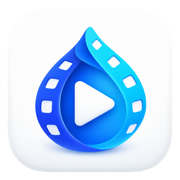
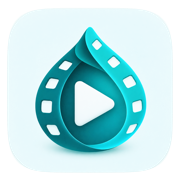
Move to teal, and shorten the skills row
Both themes swap af.codes' navy and blue for teal built from the icon's cyan, with the glow, `theme-color` metas, `dark-mode.js` and `og-image.png` following. The app icon, favicons and Apple touch icon are replaced with supplied teal versions. `.skills` gets an icon and one short line per item, and stays three columns on phones, stacking through a container query only when enlarged text wouldn't fit.

diff --git a/styles/index-light.css b/styles/index-light.css
@@ -1,16 +1,17 @@
-/* Light theme: a cool white under a glow of the icon's blues.
+/* Light theme: an aqua white under a glow of teal and the icon's cyan.
+   Teal rather than af.codes' navy and blue, so the two don't look alike.
    Don't forget to update the theme colors in scripts/dark-mode.js and index.html's
    theme-color metas if --bg changes. */
 
 :root {
     color-scheme: light;
 
-    --bg: #f4f9ff;
-    --fg: #0b1a33;
-    --secondary: #44546f;
-    /* The icon's deep blue, 7.1:1 on --bg. */
-    --accent: #0144d6;
-    --accent-text: #0144d6;
+    --bg: #f1fbfb;
+    --fg: #072a2f;
+    --secondary: #3d5e63;
+    /* The icon's cyan darkened to a deep teal, 5.9:1 on --bg and 6.2:1 under white. */
+    --accent: #006b7a;
+    --accent-text: #006b7a;
     --on-accent: #ffffff;
     --danger: #a8201a;
     --warn: #8a4b00;
@@ -18,18 +19,18 @@
        Matches af.codes. */
     --logo-circle: #ffffff;
     /* Every stop holds at least 3:1 even where the hero's glow is strongest. */
-    --title-gradient: linear-gradient(100deg, #012f9e 5%, #0144d6 50%, #0a6ee6 95%);
+    --title-gradient: linear-gradient(100deg, #004652 5%, #006b7a 50%, #00869a 95%);
     --glass: rgba(255, 255, 255, .7);
     --glass-strong: rgba(255, 255, 255, .92);
-    --glass-border: rgba(11, 26, 51, .12);
+    --glass-border: rgba(7, 42, 47, .12);
     /* At least 3:1 on the panels, so fields can be told apart from them. */
-    --field-border: rgba(11, 26, 51, .5);
-    --glass-shadow: rgba(1, 50, 150, .16);
-    --icon-shadow: rgba(1, 50, 150, .22);
-    --divider: rgba(11, 26, 51, .14);
-    --track: rgba(11, 26, 51, .16);
-    --accent-glow: rgba(1, 68, 214, .25);
-    --scrim: rgba(244, 249, 255, .82);
+    --field-border: rgba(7, 42, 47, .5);
+    --glass-shadow: rgba(0, 80, 95, .16);
+    --icon-shadow: rgba(0, 80, 95, .22);
+    --divider: rgba(7, 42, 47, .14);
+    --track: rgba(7, 42, 47, .16);
+    --accent-glow: rgba(0, 107, 122, .25);
+    --scrim: rgba(241, 251, 251, .82);
 }
 
 html {
@@ -40,9 +41,9 @@ html {
     display: block;
 }
 
-/* The icon's deep blue washing down from the top, with its cyan to one side. */
+/* A teal washing down from the top, with the icon's cyan to one side. */
 .hero-sky {
     background:
-        radial-gradient(ellipse 1100px 520px at 50% 0%, rgba(1, 68, 214, .16) 0%, rgba(1, 68, 214, .06) 50%, rgba(1, 68, 214, 0) 100%),
-        radial-gradient(ellipse 700px 420px at 82% 18%, rgba(42, 224, 253, .14) 0%, rgba(42, 224, 253, 0) 70%);
+        radial-gradient(ellipse 1100px 520px at 50% 0%, rgba(0, 150, 168, .16) 0%, rgba(0, 150, 168, .06) 50%, rgba(0, 150, 168, 0) 100%),
+        radial-gradient(ellipse 700px 420px at 82% 18%, rgba(42, 224, 253, .16) 0%, rgba(42, 224, 253, 0) 70%);
 }

diff --git a/index.html b/index.html
@@ -7,8 +7,8 @@
     <title>GifDrop</title>
     <meta name="description" content="Drop a video, get a GIF. Trim, crop and tune it right in your browser, with nothing uploaded.">
 
-    <meta name="theme-color" content="#f4f9ff" media="(prefers-color-scheme: light)">
-    <meta name="theme-color" content="#060d1e" media="(prefers-color-scheme: dark)">
+    <meta name="theme-color" content="#f1fbfb" media="(prefers-color-scheme: light)">
+    <meta name="theme-color" content="#031619" media="(prefers-color-scheme: dark)">
 
     <meta property="og:title" content="GifDrop">
     <meta property="og:type" content="website">
@@ -90,16 +90,25 @@
 
             <div class="skills">
                 <div class="skill">
+                    <svg width="20" height="20" viewBox="0 0 24 24" fill="none" stroke="currentColor" stroke-width="2" stroke-linecap="round" stroke-linejoin="round" aria-hidden="true">
+                        <rect x="3" y="11" width="18" height="11" rx="2"/><path d="M7 11V7a5 5 0 0 1 10 0v4"/>
+                    </svg>
                     <h2>Private</h2>
-                    <p>Nothing is uploaded. Your video stays on your device from start to finish.</p>
+                    <p>Nothing is ever uploaded.</p>
                 </div>
                 <div class="skill">
+                    <svg width="20" height="20" viewBox="0 0 24 24" fill="none" stroke="currentColor" stroke-width="2" stroke-linecap="round" stroke-linejoin="round" aria-hidden="true">
+                        <polygon points="13 2 3 14 12 14 11 22 21 10 12 10 13 2"/>
+                    </svg>
                     <h2>Fast</h2>
-                    <p>Uses your browser's own video decoder, so most clips convert in seconds.</p>
+                    <p>Most clips take seconds.</p>
                 </div>
                 <div class="skill">
+                    <svg width="20" height="20" viewBox="0 0 24 24" fill="none" stroke="currentColor" stroke-width="2" stroke-linecap="round" stroke-linejoin="round" aria-hidden="true">
+                        <line x1="4" y1="21" x2="4" y2="14"/><line x1="4" y1="10" x2="4" y2="3"/><line x1="12" y1="21" x2="12" y2="12"/><line x1="12" y1="8" x2="12" y2="3"/><line x1="20" y1="21" x2="20" y2="16"/><line x1="20" y1="12" x2="20" y2="3"/><line x1="1" y1="14" x2="7" y2="14"/><line x1="9" y1="8" x2="15" y2="8"/><line x1="17" y1="16" x2="23" y2="16"/>
+                    </svg>
                     <h2>Tuned</h2>
-                    <p>Trim, crop and set the size, speed and loop, and see the file size before you commit.</p>
+                    <p>Trim, crop, resize and loop.</p>
                 </div>
             </div>
         </section>

diff --git a/styles/index-dark.css b/styles/index-dark.css
@@ -1,34 +1,35 @@
-/* Dark theme: near-black navy under the icon's deep blue, with its cyan for accents.
+/* Dark theme: teal-black under a deep teal glow, with the icon's cyan for accents.
+   Teal rather than af.codes' navy and blue, so the two don't look alike.
    Don't forget to update the theme colors in scripts/dark-mode.js and index.html's
    theme-color metas if --bg changes. */
 
 :root {
     color-scheme: dark;
 
-    --bg: #060d1e;
-    --fg: #edf5ff;
-    --secondary: #a6b6cf;
-    /* The icon's cyan, 12.2:1 on --bg. */
+    --bg: #031619;
+    --fg: #eafcfd;
+    --secondary: #a3c6ca;
+    /* The icon's cyan, 11.6:1 on --bg. */
     --accent: #2ae0fd;
     --accent-text: #5be6fd;
-    --on-accent: #060d1e;
+    --on-accent: #031619;
     --danger: #ff9a8f;
     --warn: #f5c26b;
     /* Behind the logo, at least 3:1 with its main blues, #0057d5 and #0186fb.
        Matches af.codes. */
     --logo-circle: #05070d;
-    --title-gradient: linear-gradient(100deg, #d4f6ff 5%, #2ae0fd 50%, #2f9bff 95%);
+    --title-gradient: linear-gradient(100deg, #d6fbff 5%, #2ae0fd 50%, #1cc8c8 95%);
     --glass: rgba(255, 255, 255, .05);
     --glass-strong: rgba(255, 255, 255, .08);
     --glass-border: rgba(255, 255, 255, .12);
     /* At least 3:1 on the panels, so fields can be told apart from them. */
-    --field-border: rgba(237, 245, 255, .42);
+    --field-border: rgba(234, 252, 253, .42);
     --glass-shadow: rgba(0, 0, 0, .45);
     --icon-shadow: rgba(0, 0, 0, .5);
-    --divider: rgba(237, 245, 255, .14);
-    --track: rgba(237, 245, 255, .18);
+    --divider: rgba(234, 252, 253, .14);
+    --track: rgba(234, 252, 253, .18);
     --accent-glow: rgba(42, 224, 253, .28);
-    --scrim: rgba(6, 13, 30, .8);
+    --scrim: rgba(3, 22, 25, .8);
 }
 
 html {
@@ -39,9 +40,9 @@ html {
     display: block;
 }
 
-/* The icon's deep blue washing down from the top, with its cyan to one side. */
+/* A deep teal washing down from the top, with the icon's cyan to one side. */
 .hero-sky {
     background:
-        radial-gradient(ellipse 1100px 560px at 50% 0%, rgba(1, 68, 214, .5) 0%, rgba(1, 68, 214, .2) 50%, rgba(1, 68, 214, 0) 100%),
-        radial-gradient(ellipse 700px 420px at 82% 18%, rgba(14, 207, 253, .14) 0%, rgba(14, 207, 253, 0) 70%);
+        radial-gradient(ellipse 1100px 560px at 50% 0%, rgba(0, 112, 128, .45) 0%, rgba(0, 112, 128, .18) 50%, rgba(0, 112, 128, 0) 100%),
+        radial-gradient(ellipse 700px 420px at 82% 18%, rgba(42, 224, 253, .12) 0%, rgba(42, 224, 253, 0) 70%);
 }

diff --git a/styles/index-common.css b/styles/index-common.css
@@ -395,31 +395,58 @@ body:not([data-view="empty"]) .hero-copy h1 {
     }
 }
 
+/* For the skills' container query below. */
+.picker {
+    container-type: inline-size;
+}
+
+/* Three short columns, even on phones, so they don't stack into a tall list. */
 .skills {
     display: grid;
-    grid-template-columns: repeat(3, 1fr);
-    max-width: 52rem;
-    margin: 3rem auto 0;
+    grid-template-columns: repeat(3, minmax(0, 1fr));
+    max-width: 44rem;
+    margin: 2.25rem auto 0;
     text-align: center;
 }
 
 .skill {
-    padding: .25rem 1.25rem;
+    padding: .1rem 1rem;
 }
 
 .skill + .skill {
     border-left: 1px solid var(--divider);
 }
 
-.skill h2 {
-    font-size: 1.05rem;
+.skill svg {
+    display: block;
+    margin: 0 auto .3rem;
     color: var(--accent-text);
 }
 
+.skill h2 {
+    font-size: 1rem;
+    line-height: 1.35;
+}
+
 .skill p {
-    margin-top: .35rem;
-    font-size: .95rem;
+    margin-top: .1rem;
+    font-size: .9rem;
+    line-height: 1.4;
     color: var(--secondary);
+}
+
+/* Three columns need about 15rem before their longest words spill into each other, which
+   a phone falls short of once text is enlarged, as Safari's text size setting does. A
+   media query wouldn't notice that, since its units ignore the page's font size. */
+@container (max-width: 15rem) {
+    .skills {
+        grid-template-columns: minmax(0, 1fr);
+        gap: 1rem;
+    }
+
+    .skill + .skill {
+        border-left: none;
+    }
 }
 
 /* Workspace -------------------------------------------------------------- */
@@ -1296,13 +1323,15 @@ progress::-moz-progress-bar {
     }
 
     .skills {
-        grid-template-columns: 1fr;
-        gap: 1.25rem;
-        margin-top: 2.25rem;
+        margin-top: 1.75rem;
     }
 
-    .skill + .skill {
-        border-left: none;
+    .skill {
+        padding: 0 .5rem;
+    }
+
+    .skill p {
+        font-size: .85rem;
     }
 
     .crop-fields {

diff --git a/scripts/dark-mode.js b/scripts/dark-mode.js
@@ -31,7 +31,7 @@
     function applyThemeColor(theme) {
         // Both theme-color metas are media-scoped, so an override has to
         // overwrite each of them; whichever one the browser picks must agree.
-        var themeColor = theme === 'dark' ? '#060d1e' : '#f4f9ff';
+        var themeColor = theme === 'dark' ? '#031619' : '#f1fbfb';
         var metas = document.querySelectorAll('meta[name="theme-color"]');
         for (var i = 0; i < metas.length; i++) {
             metas[i].content = themeColor;

diff --git a/AGENTS.md b/AGENTS.md
@@ -18,7 +18,7 @@ After changing files, architecture, conventions or behavior, check whether this 
 
 ## Look and theming
 
-- Colors come from the app icon's deep blue and cyan. The stylesheets are hand-written on the same base as af.codes and the app sites (`gh-pages` on Alveary, Chromahora and Carouline), so carry layout changes across from them rather than letting them drift.
+- Colors are teal, built from the app icon's cyan, so the site doesn't look like af.codes' navy and blue. Keep it that way. The stylesheets are hand-written on the same base as af.codes and the app sites (`gh-pages` on Alveary, Chromahora and Carouline), so carry layout changes across from them rather than letting them drift. The exception is `.skills`, which here stays three short columns on phones so it doesn't take up their height, stacking only when enlarged text wouldn't fit.
 - `styles/index-light.css` and `index-dark.css` hold the color tokens and the hero's glow, and `index-common.css` holds everything theme-independent. Both theme sheets ship on every load, media-scoped to `prefers-color-scheme`, so the page follows the OS with no JavaScript. `scripts/dark-mode.js` only steps in when the toggle stores an override. Keep its colors in step with each sheet's `--bg`, and with `index.html`'s `theme-color` metas.
 - Text tokens hold at least 4.5:1 on `--bg` and on the glow's strongest point, and the title gradient holds 3:1. Re-check these when changing colors.
 
@@ -80,8 +80,7 @@ Each of these was measured, and the code's comments say why. Don't simplify them
 
 ## Images
 
-- `favicon.ico`, `favicon.png` and `apple-touch-icon.png` are as supplied.
-- `images/app-icon.png` is the supplied 1254x1254 icon at 256x256, with its plate's edge redrawn as a superellipse (exponent 5), since the source's alpha has stray specks around it. Its edges were fitted at x 52-1202 and y 56-1199.
+- `favicon.ico`, `favicon.png`, `apple-touch-icon.png` and `images/app-icon.png` are as supplied, recolored teal to match the theme sheets. The app icon's 1024x1024 master isn't in the repo. Its plate's edge was already masked clean, so check any replacement for stray alpha specks around the tile.
 - `images/og-image.png` comes from `og-image/render.sh`. Re-render it when the icon, the name or the dark theme's colors change.
 - The header's logo is `https://af.codes/images/af.png`, so there's no copy here. It loads with the page, before any video is picked, so the `ui` suite's check for network requests after load still holds. It sits uncropped on a circle filled with `--logo-circle`, white in the light theme and near-black in the dark one, with a drop shadow in `--icon-shadow`. Its values in the theme sheets match af.codes' and hold at least 3:1 with the logo's main blues, `#0057d5` and `#0186fb`, so change them together.
 
